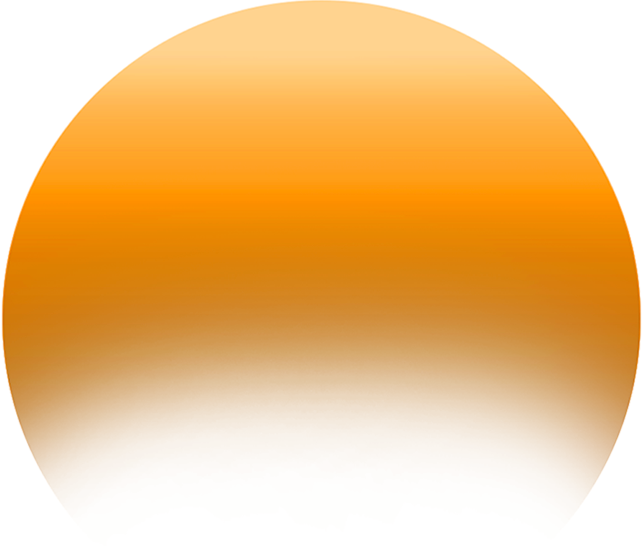
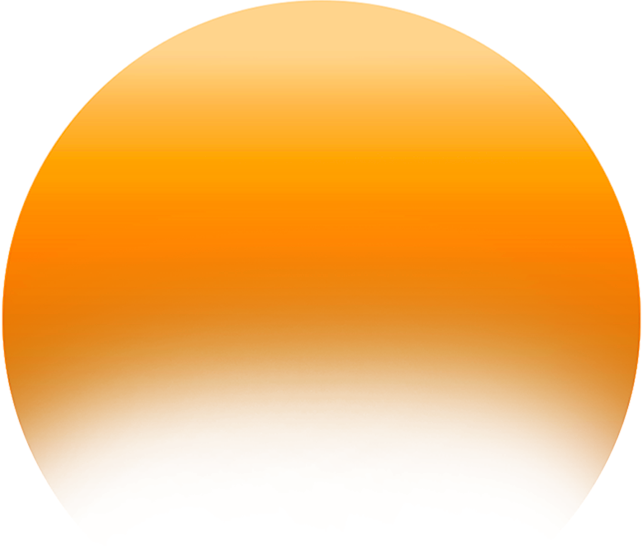
Winart Platform 1.0.7

Changed region(s): [[0.0, 0.4359, 0.9969, 0.6227], [0.0623, 0.2491, 0.9346, 0.3425]]

diff --git a/src/components/Components.css b/src/components/Components.css
@@ -54,55 +54,55 @@
 
 .wt-Timeline{
     width: 80vw;
-    height: 600px;
+    height: 50vh;
     display: flex;
     justify-content: space-between;
 }
 
 .wt-Timeline0-line{
     width: 3px;
-    height: 300px;
+    height: 25vh;
     background-color: #ffffff;
     position: relative;
     transform: translateY(300px);
 }
 
 .wt-Timeline0-circle{
-    padding: 20px;
+    padding: 1vw;
     border-radius: 20px;
     background-color: #ffffff;
     position: relative;
-    transform: translate(-17px, -17px);
+    transform: translate(-0.9vw, -0.9vw);
 }
 
 .wt-Timeline1-line{
     width: 3px;
-    height: 600px;
+    height: 50vh;
     background-color: #ffffff;
     position: relative;
 }
 
 .wt-Timeline1-circle{
-    padding: 20px;
+    padding: 1vw;
     border-radius: 20px;
     background-color: #ffffff;
     position: relative;
-    transform: translate(-17px, 285px);
+    transform: translate(-0.9vw, 24vh);
 }
 
 .wt-Timeline2-line{
     width: 3px;
-    height: 300px;
+    height: 25vh;
     background-color: #ffffff;
     position: relative;
 }
 
 .wt-Timeline2-circle{
-    padding: 20px;
+    padding: 1vw;
     border-radius: 20px;
     background-color: #ffffff;
     position: relative;
-    transform: translate(-17px, 285px);
+    transform: translate(-0.9vw, 24vh);
 }
 
 

diff --git a/src/Home/Home.css b/src/Home/Home.css
@@ -9,7 +9,7 @@
 }
 
 .wt-home{
-    height: 140vh;
+    height: 100vh;
     background-image: url('../assets/fondoHome.jpg');
     background-size: cover;
     display: flex;
@@ -20,7 +20,7 @@
 
 .wt-home-hojas{
     z-index: 10;
-    height: 140vh;
+    height: 100vh;
     width: 100%;
     position: absolute;
     overflow: hidden;
@@ -62,7 +62,6 @@
     align-items: center;
     justify-content: center;
     position: relative;
-    top: -90px;
 }
 
 .wt-home-logo{
@@ -86,25 +85,26 @@
 
 .wt-home-bg{
     z-index: 5;
-    height: 140vh;
+    top: 20vh;
+    height: 100vh;
     width: 100%;
     position: absolute;
-    overflow: hidden;
+
     display: flex;
     align-items: center;
     justify-content: center;
 }
 
 .wt-home-brillo{
-    width: 1950px;
+    width: 100%;
     position: absolute;
-    top: -80px;
+    top: -40vh;
 }
 
 .wt-home-sol{
     width: 500px;
     position: absolute;
-    top: 260px;
+    top: -1vh;
     place-self: center;
 }
 

diff --git a/src/Pages/Program/Program.css b/src/Pages/Program/Program.css
@@ -1,6 +1,6 @@
 .wt-Program{
     position: relative;
-    height: 370vh;
+    height: 280vh;
 }
 
 .wt-Program-bg{
@@ -31,9 +31,8 @@
     top: 0;
     left: 0;
     z-index: 5;
-    padding: 10vh 0;
+    padding: 5vh 0;
     width: 100%;
-    height: 350vh;
     display: flex;
     align-items: center;
     flex-direction: column;

diff --git a/src/Pages/Spots/Spots.css b/src/Pages/Spots/Spots.css
@@ -2,6 +2,7 @@
     height: 100vh;
     width: 100%;
     background-image: url('../../assets/cuposLimitados.jpg');
+    background-size: cover;
     display: flex;
     flex-direction: column;
     align-items: center;
